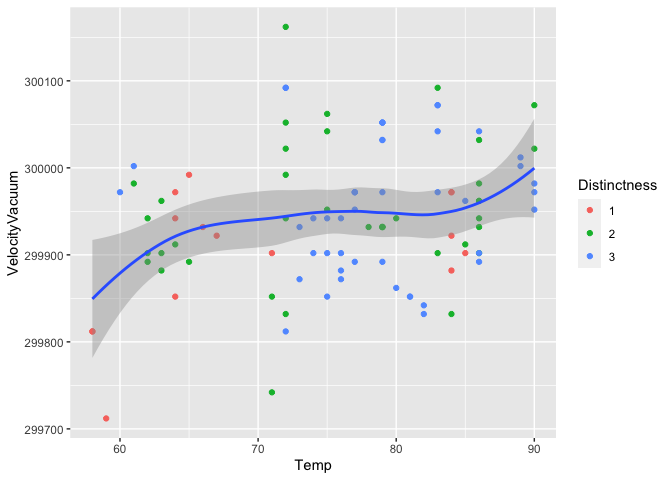
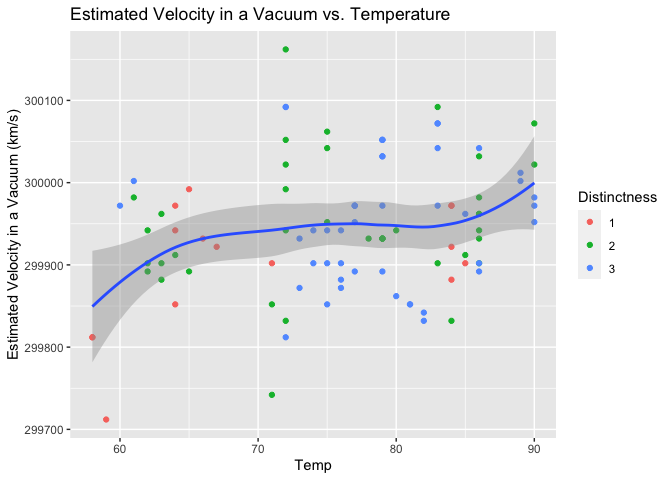
Michelson v1

diff --git a/c02-michelson-assignment.md b/c02-michelson-assignment.md
@@ -1,7 +1,7 @@
 Michelson Speed-of-light Measurements
 ================
 Angela Sharer
-2020-07-16
+2020-07-18
 
   - [Bibliography](#bibliography)
   - [Grading Rubric](#grading-rubric)
@@ -112,8 +112,15 @@ df_q1 %>%
 | 2            | 39 |     299858.5 |
 | 1            | 15 |     299808.0 |
 
-**Observations**: - Write your observations here\! - Why might your
-table differ from Michelson’s?
+**Observations**: - With increasing distinctness (from 1, which is poor,
+to 3, which is good), the mean velocity increases. - This increase is
+greater from 1 to 2 than from 2 to 3. - But actually, all of the mean
+velocities represented here are higher than the true speed of light in a
+vacuum. - This table might differ from Michelson’s due to approximations
+being made during the process of computing the mean in R; I remember a
+demonstrative example involving the square root of 2 being subtracted
+from itself or similar, and a resulting small error. (Or perhaps
+Michelson made other adjustments?)
 
 The `Velocity` values in the dataset are the speed of light *in air*;
 Michelson introduced a couple of adjustments to estimate the speed of
@@ -193,8 +200,8 @@ Error_v_Uncertainty
 
   - The error between Michelson’s estimate and the true value is 151.542
     km/s; Michelson’s estimate was on the high side.
-  - Michelson estimated his uncertainty to be 51 km/s; the actual error
-    was almost 3 times greater than his uncertainty.
+  - Michelson estimated his uncertainty to be \(\pm 51\) km/s; the
+    actual error was almost 3 times this value.
 
 **q4** You have access to a few other variables. Construct a few
 visualizations of `VelocityVacuum` against these other factors. Are
@@ -204,21 +211,141 @@ between Michelson’s estimate and `LIGHTSPEED_VACUUM`?
 ``` r
 df_q2 %>%
   ggplot() +
-    geom_point(mapping = aes(x = Temp, y = VelocityVacuum, color = Distinctness)) +
-    geom_smooth(mapping = aes(x = Temp, y = VelocityVacuum))
+    geom_point(
+      mapping = aes(x = Temp, y = VelocityVacuum, color = Distinctness)
+    ) +
+    geom_smooth(mapping = aes(x = Temp, y = VelocityVacuum)) +
+    labs(
+      title = "Estimated Velocity in a Vacuum vs. Temperature", 
+      y = "Estimated Velocity in a Vacuum (km/s)"
+    )
 ```
 
     ## `geom_smooth()` using method = 'loess' and formula 'y ~ x'
 
 ![](c02-michelson-assignment_files/figure-gfm/q4-1.png)<!-- -->
 
+**Observations**:
+
+  - There seems to be a relationship between temperature and observed
+    velocity; higher temperatures lead to higher observed velocities.
+
+<!-- end list -->
+
+``` r
+df_lowtemps <-
+  filter(df_q2, Temp < 60) %>%
+  arrange(Velocity)
+
+df_lowtemps
+```
+
+    ## # A tibble: 3 x 5
+    ##   Date                Distinctness  Temp Velocity VelocityVacuum
+    ##   <dttm>              <fct>        <dbl>    <dbl>          <dbl>
+    ## 1 1879-06-18 00:00:00 1               59   299620         299712
+    ## 2 1879-06-18 00:00:00 1               58   299720         299812
+    ## 3 1879-06-18 00:00:00 1               58   299720         299812
+
+``` r
+df_hightemps <-
+  filter(df_q2, Temp >= 90) %>%
+  arrange(Velocity)
+
+df_hightemps
+```
+
+    ## # A tibble: 5 x 5
+    ##   Date                Distinctness  Temp Velocity VelocityVacuum
+    ##   <dttm>              <fct>        <dbl>    <dbl>          <dbl>
+    ## 1 1879-06-23 00:00:00 3               90   299860         299952
+    ## 2 1879-06-23 00:00:00 3               90   299880         299972
+    ## 3 1879-06-23 00:00:00 3               90   299890         299982
+    ## 4 1879-06-10 00:00:00 2               90   299930         300022
+    ## 5 1879-06-10 00:00:00 2               90   299980         300072
+
+**Observations**:
+
+  - At the lowest temperatures (less than 60 degrees Fahrenheit), we
+    observe some of the lowest velocities in the dataset, with estimates
+    for the velocity in a vacuum ranging from 299,712 to 299,812 km/s.
+    (The true speed of light in a vacuum falls in this range.)
+  - At the highest temperatures (90 degrees Fahrenheit), all velocities
+    measured are higher than this range, with velocities in a vacuum
+    ranging from 299,952 to 300,072 km/s.
+  - Therefore, there may be a relationship (and indeed the physics of
+    light moving through a medium, and the effects of temperature on the
+    properties of our atmosphere would confirm this) between temperature
+    and the speed of light. This dataset is limited (only 100
+    observations), so it is difficult to measure from this alone, but it
+    certainly would have been interesting to see the experiment run
+    during the winter, rather than June and July, and observe the
+    results during colder temperatures.
+
+<!-- end list -->
+
 ``` r
 df_q2 %>%
   ggplot() +
-    geom_boxplot(mapping = aes(x = Distinctness, y = VelocityVacuum))
+    geom_boxplot(mapping = aes(x = Distinctness, y = VelocityVacuum)) +
+    labs(
+      title = "Estimated Velocity in a Vacuum by Distinctness", 
+      y = "Estimated Velocity in a Vacuum (km/s)"
+    )
 ```
 
-![](c02-michelson-assignment_files/figure-gfm/q4-2.png)<!-- -->
+![](c02-michelson-assignment_files/figure-gfm/q4%20boxplot-1.png)<!-- -->
+
+**Observations**:
+
+  - As observed in the tables, increasing distinctness also yields to an
+    increase in mean velocity.
+  - Only the poor and fair distinctness observations yield estimates for
+    the velocity in a vacuum that cover the range including the true
+    velocity.
+
+<!-- end list -->
+
+``` r
+df_q2 %>%
+  ggplot() +
+    geom_point(mapping = aes(x = Date, y = VelocityVacuum, color = Distinctness)) +
+    geom_smooth(mapping = aes(x = Date, y = VelocityVacuum)) +
+    labs(
+      title = "Estimated Velocity in a Vacuum by Date and Distinctness", 
+      y = "Estimated Velocity in a Vacuum (km/s)"
+    )
+```
+
+    ## `geom_smooth()` using method = 'loess' and formula 'y ~ x'
+
+![](c02-michelson-assignment_files/figure-gfm/q4%20velocity%20estimates%20by%20date%20and%20distinctness-1.png)<!-- -->
+
+**Observations**:
+
+  - All poor distinctness observations took place in the first half of
+    the experiment, June 12 - June 18.
+  - Earlier measurements skewed a bit higher than later measurements.
+
+<!-- end list -->
+
+``` r
+df_q2 %>%
+  ggplot() +
+    geom_point(mapping = aes(x = Date, y = Temp)) +
+    geom_smooth(mapping = aes(x = Date, y = Temp)) +
+    labs(title = "Date and Temperature", y = "Temperature (degrees Fahrenheit)")
+```
+
+    ## `geom_smooth()` using method = 'loess' and formula 'y ~ x'
+
+![](c02-michelson-assignment_files/figure-gfm/q4%20date%20and%20Temp-1.png)<!-- -->
+
+**Observations**:
+
+  - Temperatures (as measured during data collection only) were lowest
+    at the beginning of the experiment, and again for a few days during
+    the middle of the experiment.
 
 ## Bibliography
 
